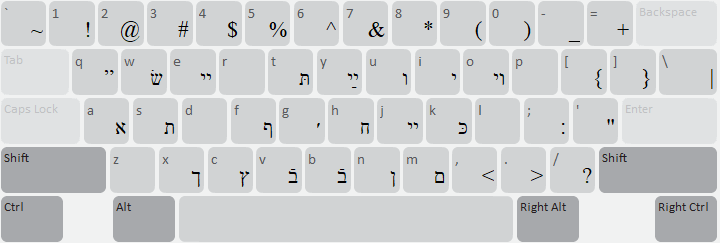
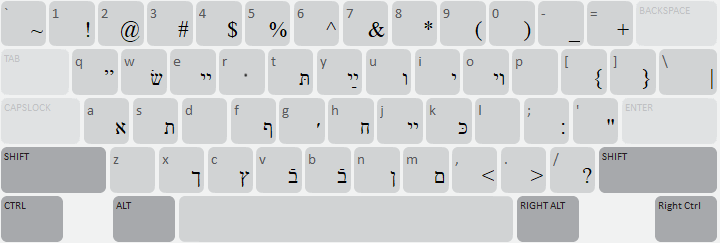
yiddish-v-2

diff --git a/release/y/yiddish_pasekh/source/welcome/welcome.htm b/release/y/yiddish_pasekh/source/welcome/welcome.htm
@@ -30,12 +30,17 @@ including Times New Roman and Arial.  Use the Font Helper in Keyman Desktop to f
 <p>This keyboard complies with Unicode 5.1</p>
 
 
-  <h2>Keyboard layout</h2>
+  <h2>Desktop layout</h2>
 	<h3>Default (unshifted)</h3>
 	<p><a href="LayoutU_.png"><img class="keyboard" src="LayoutU_.png" alt="Default (unshifted) state" /></a></p>
 	<h3>Shift</h3>
 	<p><a href="LayoutU_S.png"><img class="keyboard" src="LayoutU_S.png" alt="Shift state" /></a></p>
 
+  <h2>Mobile layout</h2>
+	<h3>Default (unshifted)</h3>
+	<p><a href="LayoutMobileU_.png"><img class="keyboard" src="LayoutMobileU_.png" alt="Default (unshifted) state" /></a></p>
+	<h3>Shift</h3>
+	<p><a href="LayoutMobileU_S.png"><img class="keyboard" src="LayoutMobileU_S.png.png" alt="Shift state" /></a></p>
 
 
 <div id='Quickstart'>
@@ -101,6 +106,8 @@ combinations:</P>
 <tr><td><span class='keys'>S</span></td><td><span class='lang2'>ת</span></td><td class='note'>sof</td></tr>
 <tr><td><span class='keys'>T</span></td><td><span class='lang2'>תּ</span></td><td class='note'>tof</td></tr>
 <tr><td><span class='keys'>W</span></td><td><span class='lang2'>שׂ</span></td><td class='note'>sin</td></tr>
+<tr><td><span class='keys'>rR</span></td><td><span class='lang2'>רּ</span></td><td class='note'>melupm vov</td></tr>
+<tr><td><span class='keys'>kR</span></td><td><span class='lang2'>קּ</span></td><td class='note'></td></tr>
 </table>
 
 <p><EM>Geresh</EM> is typed with <span class='keys'>[SHIFT]+[G]</span> and <EM>curly 

diff --git a/release/y/yiddish_pasekh/source/help/yiddish_pasekh.php b/release/y/yiddish_pasekh/source/help/yiddish_pasekh.php
@@ -16,9 +16,9 @@ including Times New Roman and Arial.  Use the Font Helper in Keyman Desktop to f
 <div id='osk-container'>
   <h2>Desktop Keyboard Layout</h2>
   <div id='osk' data-states='default shift'></div>
+  <h2>Mobile Keyboard Layout</h2>
+  <div id='osk-tablet' data-states='default shift'></div>
 </div>
-
-
 
 <div id='Quickstart'>
 <h2>Quickstart</h2>
@@ -83,6 +83,8 @@ combinations:</P>
 <tr><td><span class='keys'>S</span></td><td><span class='lang2'>ת</span></td><td class='note'>sof</td></tr>
 <tr><td><span class='keys'>T</span></td><td><span class='lang2'>תּ</span></td><td class='note'>tof</td></tr>
 <tr><td><span class='keys'>W</span></td><td><span class='lang2'>שׂ</span></td><td class='note'>sin</td></tr>
+<tr><td><span class='keys'>rR</span></td><td><span class='lang2'>רּ</span></td><td class='note'>melupm vov</td></tr>
+<tr><td><span class='keys'>kR</span></td><td><span class='lang2'>קּ</span></td><td class='note'></td></tr>
 </table>
 
 <p><EM>Geresh</EM> is typed with <span class='keys'>[SHIFT]+[G]</span> and <EM>curly 

diff --git a/release/y/yiddish_pasekh/README.md b/release/y/yiddish_pasekh/README.md
@@ -1,9 +1,9 @@
 Yiddish Pasekh Keyboard
 =======================
 
-Copyright (C) 2002-2021 Gyula Zsigri
+Copyright (C) 2002-2024 Gyula Zsigri
 
-Version 1.9
+Version 2.0.0
 
 __DESCRIPTION__
 This keyboard layout is designed to type Yiddish by transliteration. This keyboard layout works best with a QWERTY (English) keyboard.

diff --git a/release/y/yiddish_pasekh/HISTORY.md b/release/y/yiddish_pasekh/HISTORY.md
@@ -1,6 +1,11 @@
 Yiddish Pasekh Keyboard Change History
 =======================
 
+2.0.0 (08 Aug 2024)
+-----------------
+* Added <kbd> ּ<kbd> (HEBREW POINT DAGESH OR MAPIQ) to type melupm vov
+* Updated documentation
+
 1.9 (4 Mar 2021)
 -----------------
 * Added keystroke to access yod+hiriq

diff --git a/release/y/yiddish_pasekh/LICENSE.md b/release/y/yiddish_pasekh/LICENSE.md
@@ -1,6 +1,6 @@
 The MIT License (MIT)
 
-Copyright (C) 2002-2021 Gyula Zsigri
+Copyright (C) 2002-2024 Gyula Zsigri
 
 Permission is hereby granted, free of charge, to any person obtaining a copy
 of this software and associated documentation files (the "Software"), to deal
